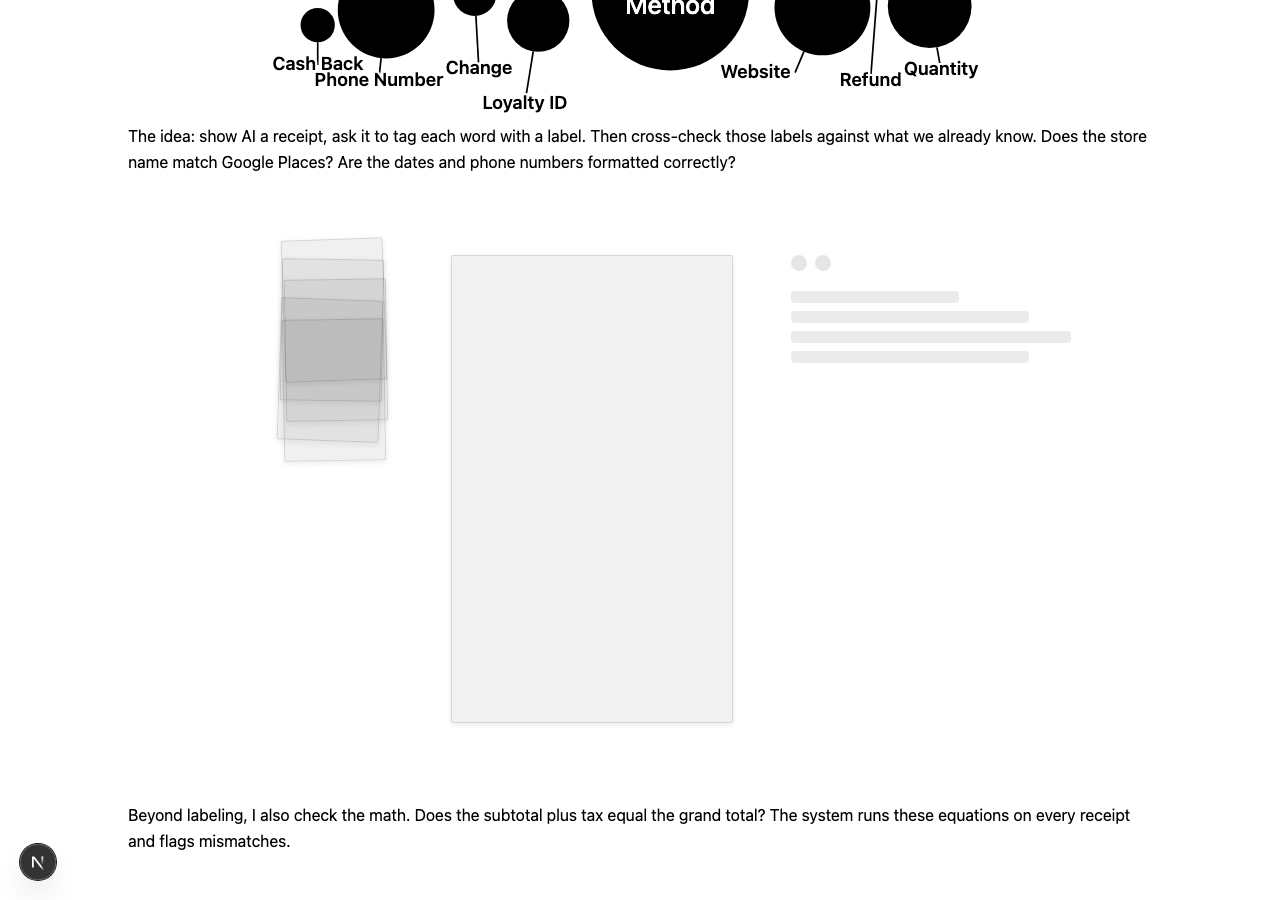
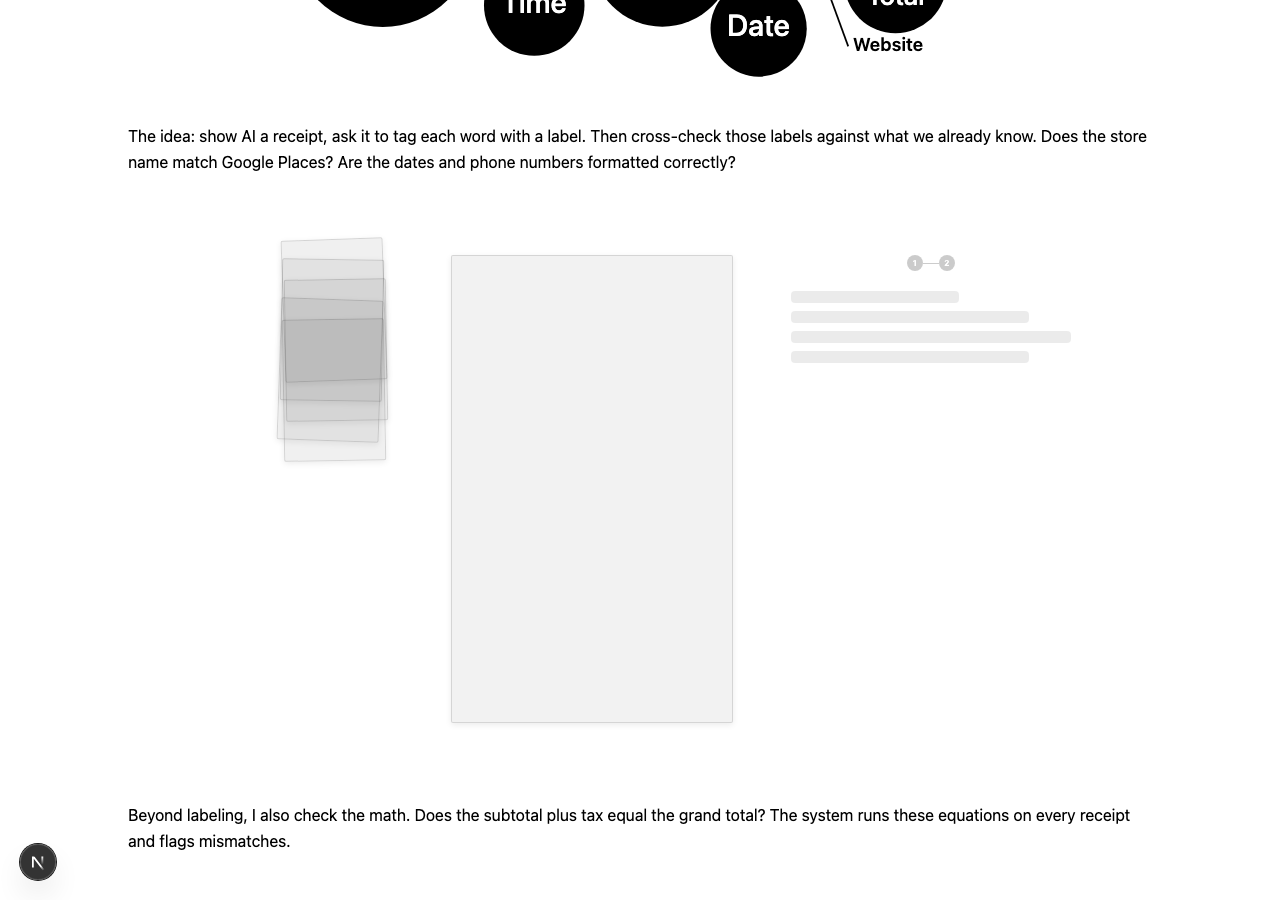
fix: match loading shell pass dots to loaded component
- Add numbers (1, 2) inside pass dot skeletons
- Add connector line between dots to match PassIndicator in loaded state
- Update CSS to use same styling as WithinReceiptVerification pass dots

Changed region(s): [[0.2188, 0.0, 0.7812, 0.1244], [0.6875, 0.28, 0.75, 0.3111], [0.625, 0.28, 0.6562, 0.3111]]

diff --git a/portfolio/components/ui/Figures/ReceiptFlow/ReceiptFlowLoadingShell.tsx b/portfolio/components/ui/Figures/ReceiptFlow/ReceiptFlowLoadingShell.tsx
@@ -62,8 +62,9 @@ function LegendSkeleton({ variant }: { variant: ReceiptFlowLoadingVariant }) {
       return (
         <div className={`${styles.legendSkeleton} ${styles.legendWithin}`}>
           <div className={styles.passDotsSkeleton}>
-            <div className={styles.passDotSkeleton} />
-            <div className={styles.passDotSkeleton} />
+            <div className={styles.passDotSkeleton}>1</div>
+            <div className={styles.passConnectorSkeleton} />
+            <div className={styles.passDotSkeleton}>2</div>
           </div>
           <div className={styles.cardBlockSkeleton}>
             <div className={`${styles.cardLineSkeleton} ${styles.short}`} />

diff --git a/portfolio/components/ui/Figures/ReceiptFlow/ReceiptFlowLoadingShell.module.css b/portfolio/components/ui/Figures/ReceiptFlow/ReceiptFlowLoadingShell.module.css
@@ -59,7 +59,8 @@
 .passDotsSkeleton {
   display: flex;
   align-items: center;
-  gap: 8px;
+  justify-content: center;
+  gap: 0;
   margin-bottom: 0.5rem;
 }
 
@@ -67,7 +68,21 @@
   width: 16px;
   height: 16px;
   border-radius: 50%;
-  background: rgba(var(--text-color-rgb, 0, 0, 0), 0.1);
+  background-color: var(--text-color);
+  opacity: 0.2;
+  display: flex;
+  align-items: center;
+  justify-content: center;
+  font-size: 0.5rem;
+  font-weight: 700;
+  color: var(--background-color);
+}
+
+.passConnectorSkeleton {
+  width: 16px;
+  height: 1px;
+  background: var(--text-color);
+  opacity: 0.2;
 }
 
 .cardBlockSkeleton {
